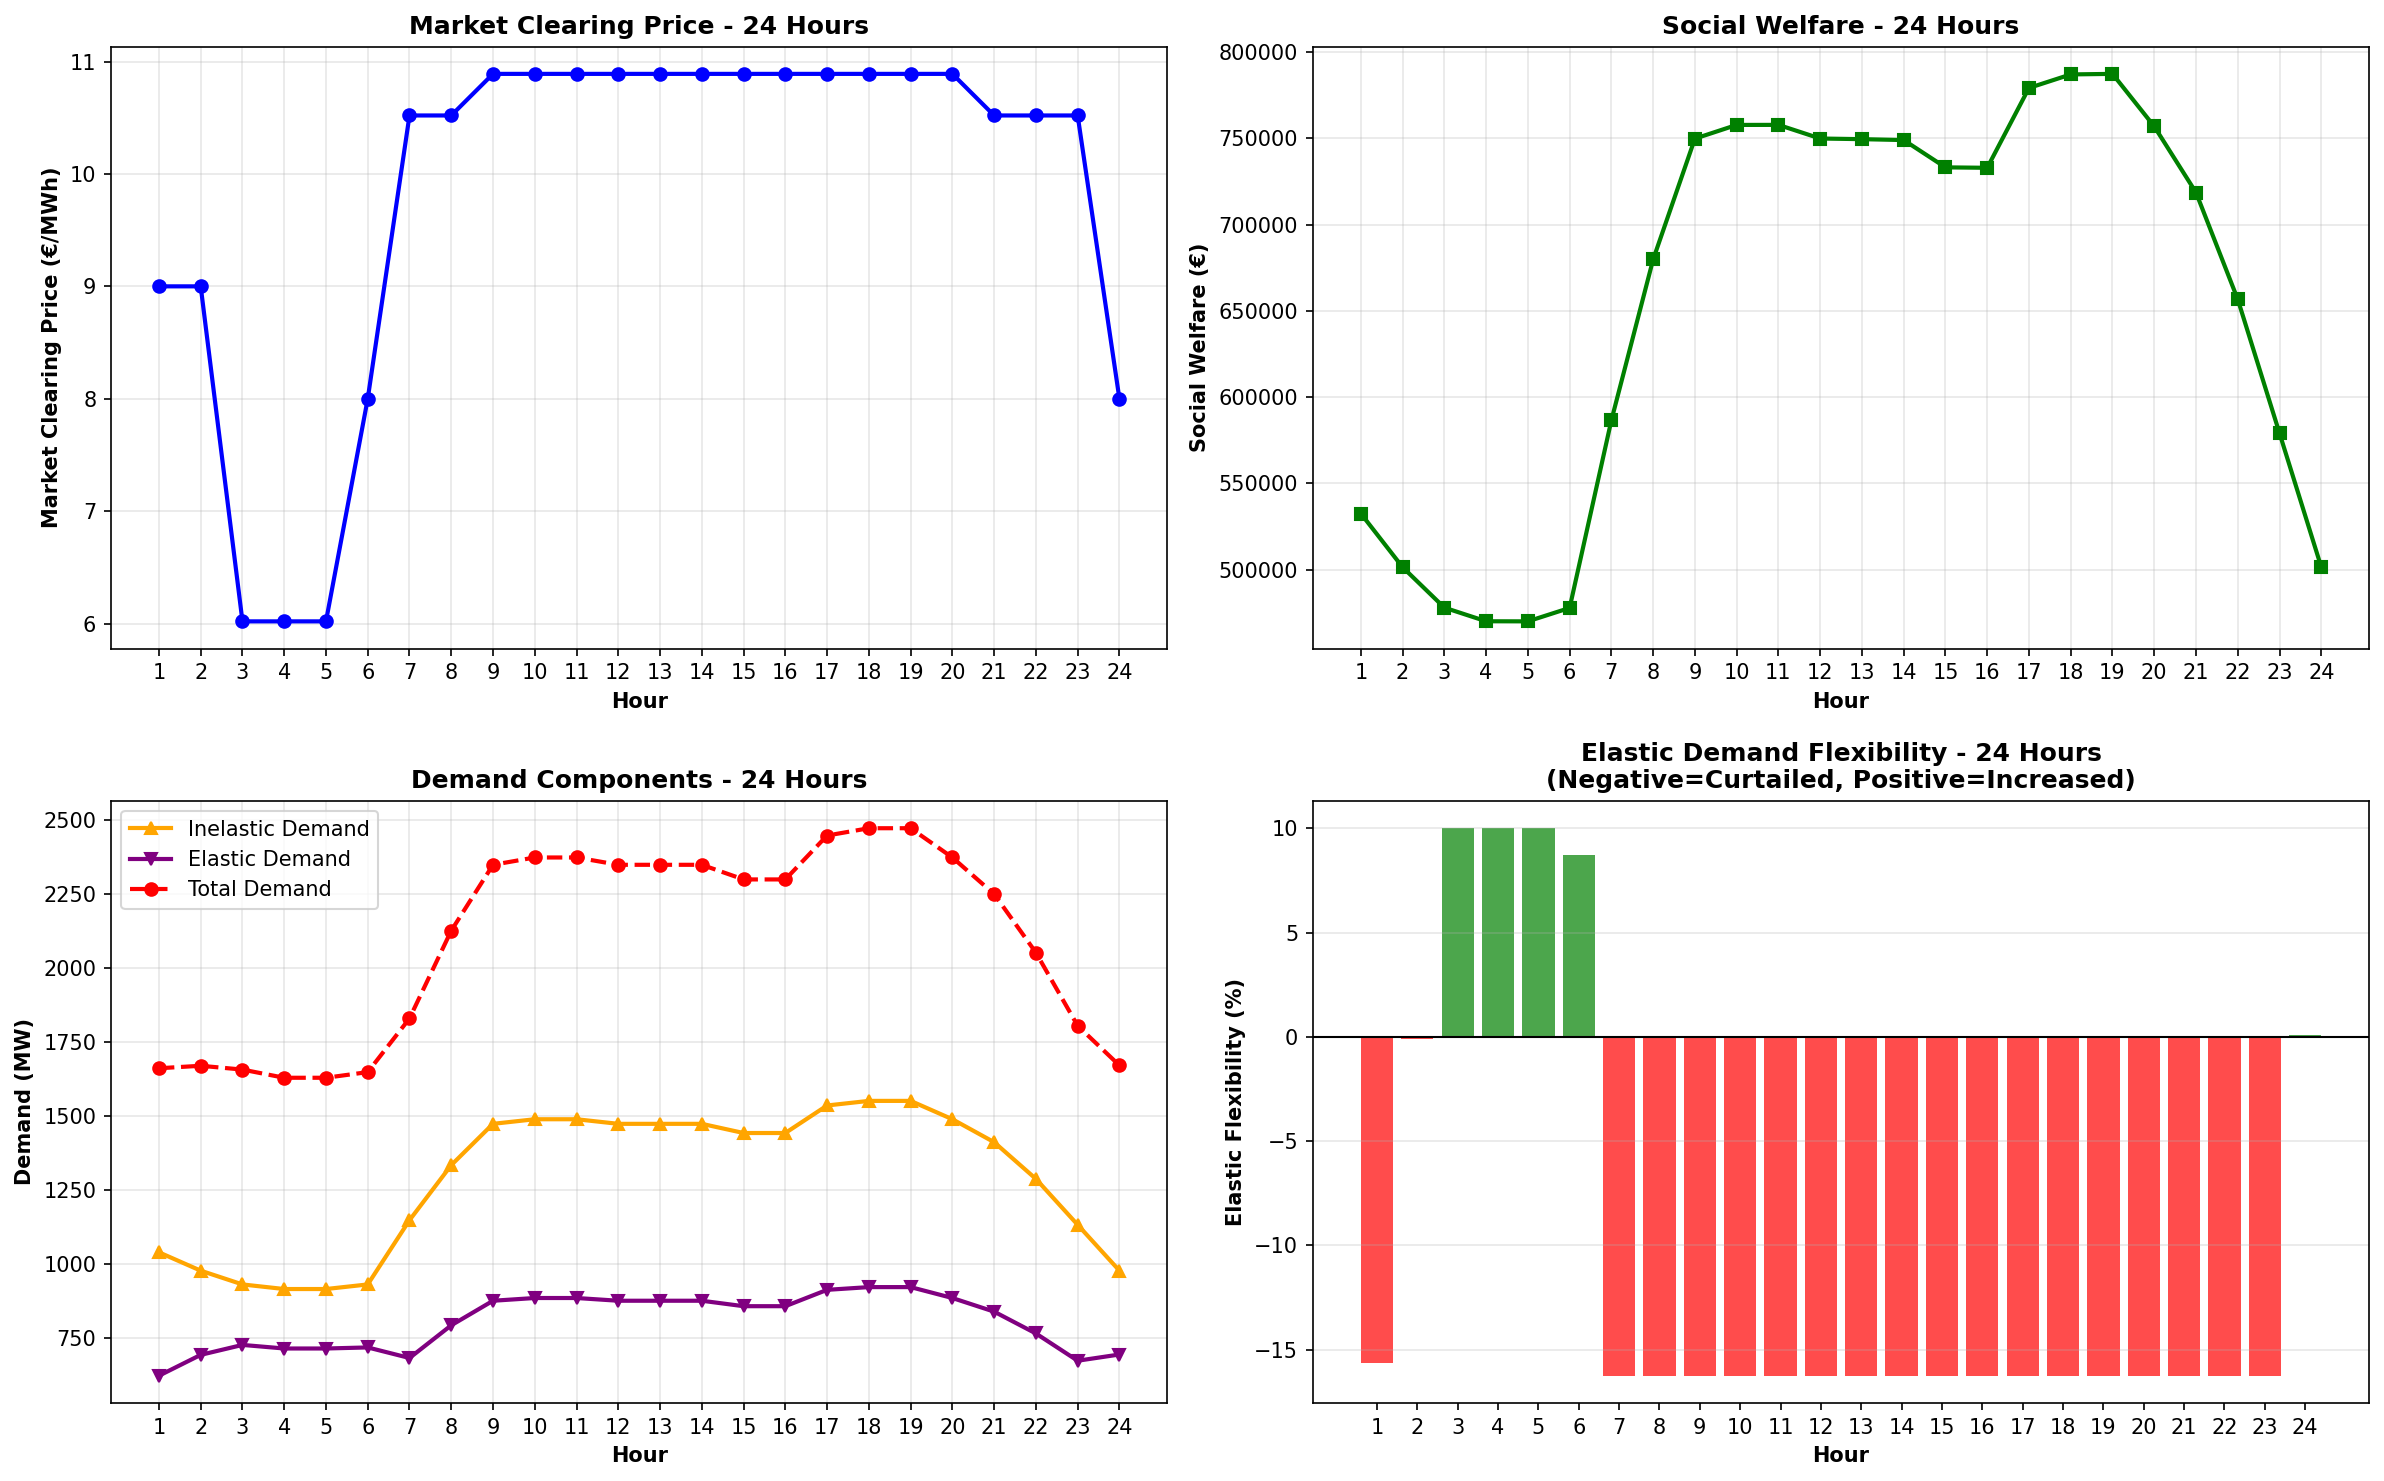
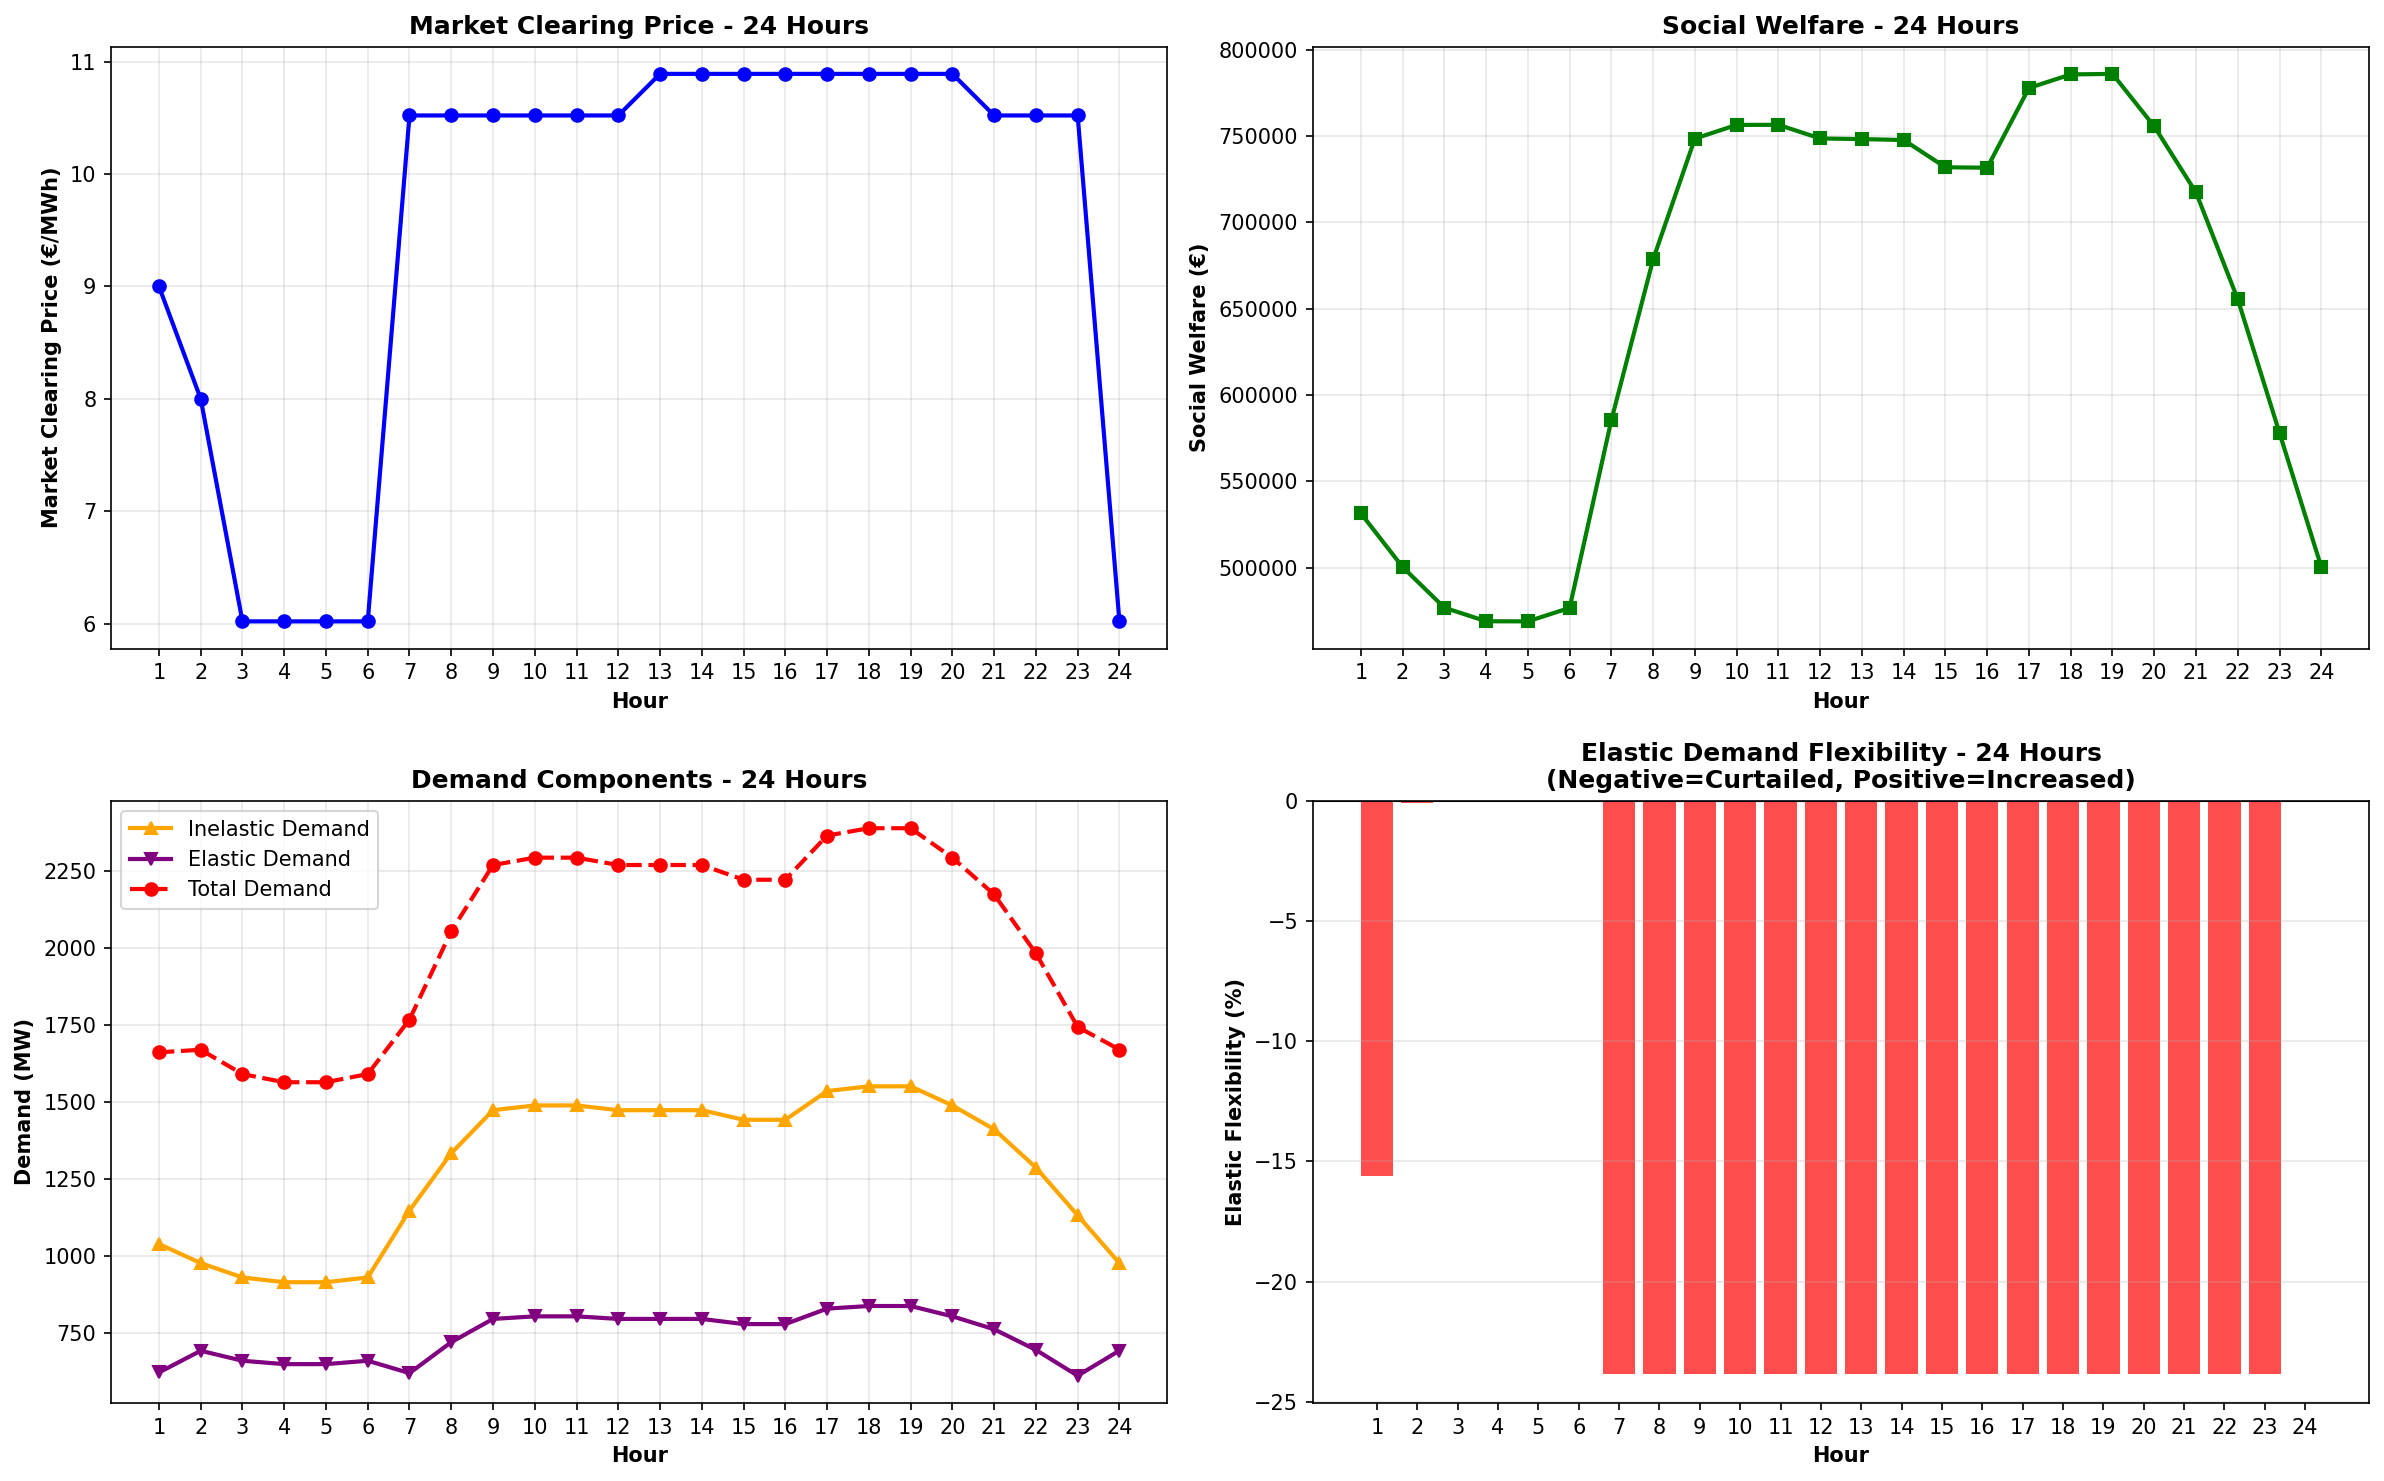
easy fixes to the conventions for the constants and hard code

diff --git a/Assignment_step1.py b/Assignment_step1.py
@@ -1,6 +1,3 @@
-# Howdy partner
-# ! Welcome to the wild west of coding. Let's wrangle some code together! 
-
 # step 1: single hour optimization with 6/17 elastic loads
 # imports
 import gurobipy as gp
@@ -154,21 +151,22 @@ elastic_bid_prices = {
     14: 25.0,   # mid-range flexibility
     15: 31.0,   # less flexible, close to peak generator cost
 }
+VOLL = 500  
 
 # Hour selected for merit order curve analysis (0-based index)
-hour = 8  # hour 5
+HOUR = 8  # hour 5
 
 # Optimization for each hour
 # Define ranges and indexes
 N_GENERATORS = len(total_generators) # number of generators (12 conventional + 6 wind)
 N_LOADS = len(load_distribution) # number of loads (17 total: 11 inelastic + 6 elastic)
-time_step = 24 # time step in hours 
+TIME_STEPS = 24 # time step in hours 
 GENERATORS = range(len(total_generators)) 
 LOADS = range(N_LOADS) 
 
 # Storage for results across all hours
 results_by_hour = []
-for t in range(time_step):  # Loop over time steps (hours)
+for t in range(TIME_STEPS):  # Loop over time steps (hours)
     wind_generator['capacity'] = wind_capacity[:, t] # Update wind generator capacities for the current hour based on CSV data
     total_generators =  pd.concat([conventional_generators, wind_generator], ignore_index=True) # Update total generators DataFrame with the new wind generator capacities for the current hour
     
@@ -185,12 +183,12 @@ for t in range(time_step):  # Loop over time steps (hours)
         
         if node in elastic_nodes:
             bid_quantities_min.append(0)
-            bid_quantities_max.append(demand_at_node * 1.10)
+            bid_quantities_max.append(demand_at_node)
             bid_prices.append(elastic_bid_prices[node])
         else:
             bid_quantities_min.append(demand_at_node * 1.00)
             bid_quantities_max.append(demand_at_node * 1.00)
-            bid_prices.append(500.0) # high bid price to ensure the inelastic load are always accepted - Value of Lost Load
+            bid_prices.append(VOLL) # high bid price to ensure the inelastic load are always accepted - Value of Lost Load
     
     demand_data = pd.DataFrame({
         'node': load_nodes,
@@ -278,9 +276,9 @@ for t in range(time_step):  # Loop over time steps (hours)
     elastic_flexibility_pct = (elastic_served / elastic_demand_base - 1) * 100 if elastic_demand_base > 0 else 0
     
     # Also calculate curtailment from MAX (110%) for reference
-    elastic_max_possible = elastic_demand_base * 1.10
+    elastic_max_possible = elastic_demand_base
     elastic_curtailment_from_max = (1 - elastic_served / elastic_max_possible) * 100 if elastic_max_possible > 0 else 0
-    if t == hour:  # Store detailed results for the hour selected for merit order curve analysis
+    if t == HOUR:  # Store detailed results for the hour selected for merit order curve analysis
         model_selected = model
         generators_selected = total_generators.copy() 
         demand_data_selected = demand_data.copy()
@@ -317,8 +315,8 @@ results_df = pd.DataFrame(results_by_hour)
 
 
 # Print summary for the selected hour
-h = results_df[results_df['hour'] == hour + 1].iloc[0] 
-print('\n'f'Step 1 market-clearing outcomes for {hour + 1}:') 
+h = results_df[results_df['hour'] == HOUR + 1].iloc[0] 
+print('\n'f'Step 1 market-clearing outcomes for {HOUR + 1}:') 
 print(f'Market Clearing Price: €{h["mcp"]:.2f}/MWh') 
 print(f'Total Operatring Cost: €{h["total_cost"]:.2f}')
 print(f'Social Welfare: €{h["social_welfare"]:.2f}')
@@ -416,11 +414,11 @@ plt.savefig(plots_dir / '24h_market_results.png', dpi=150, bbox_inches='tight')
 plt.close()
 
 # ============================================================================
-# MERIT ORDER CURVE + DEMAND CURVE (chosen hour) - Split Y-axis plot
+# MERIT ORDER CURVE + DEMAND CURVE (chosen hour)
 # ============================================================================
 
 # --- Supply curve data ---
-wind_generator['capacity'] = wind_capacity[:, hour]
+wind_generator['capacity'] = wind_capacity[:, HOUR]
 moc_generators = pd.concat([conventional_generators, wind_generator], ignore_index=True)
 moc_generators_sorted = moc_generators.copy().sort_values(by=["cost"])
 
@@ -439,7 +437,7 @@ for j, node in enumerate(load_nodes):
     if node in elastic_nodes:
         demand_bids.append((qty_max, elastic_bid_prices[node]))
     else:
-        demand_bids.append((qty_max, 500.0))  # VoLL for inelastic loads
+        demand_bids.append((qty_max, VOLL))  # VoLL for inelastic loads
 
 # Sort by bid price descending (highest willingness to pay first)
 demand_bids.sort(key=lambda x: x[1], reverse=True)
@@ -458,9 +456,9 @@ demand_x.append(demand_cumulative[-1])
 demand_y.append(0)
 
 # MCP from optimizer (dual variable of balance constraint)
-moc_equilibrium = results_df.loc[results_df['hour'] == hour + 1, 'mcp'].values[0]
+moc_equilibrium = results_df.loc[results_df['hour'] == HOUR + 1, 'mcp'].values[0]
 
-# --- Plot: split Y-axis (broken axis) ---
+# --- Plot: split Y-axis ---
 # Top panel: inelastic demand at VoLL (€500)
 # Bottom panel: elastic bids and MCP zone (0–45 €/MWh)
 fig, (ax_top, ax_bottom) = plt.subplots(
@@ -484,7 +482,7 @@ for ax in (ax_top, ax_bottom):
 
 # Top panel shows only the VoLL region
 ax_top.set_ylim(470, 530)
-ax_top.set_yticks([500])
+ax_top.set_yticks([VOLL])
 ax_top.set_ylabel('VoLL (€/MWh)', fontsize=10)
 ax_top.spines['bottom'].set_visible(False)
 ax_top.tick_params(bottom=False)
@@ -497,15 +495,6 @@ ax_bottom.set_xlabel('Cumulative Capacity / Demand (MW)', fontsize=12, fontweigh
 ax_bottom.spines['top'].set_visible(False)
 ax_bottom.legend(fontsize=11, loc='upper right')
 
-# # Add dashed reference lines for each elastic bid price
-# for bid_price in sorted(set(elastic_bid_prices.values())):
-#     ax_bottom.axhline(y=bid_price, color='red', linestyle=':', linewidth=0.8, alpha=0.5)
-#     ax_bottom.annotate(
-#         f'€{bid_price}/MWh',
-#         xy=(demand_cumulative[-1] * 1.13, bid_price),
-#         fontsize=8, color='darkred', va='center'
-#     )
-
 # --- Broken axis indicators (diagonal marks at the split) ---
 d = 0.015  # size of diagonal marks
 kwargs = dict(transform=ax_top.transAxes, color='k', clip_on=False, linewidth=1.5)
@@ -517,8 +506,8 @@ ax_bottom.plot((-d, +d), (1 - d, 1 + d), **kwargs)        # top-left of bottom p
 ax_bottom.plot((1 - d, 1 + d), (1 - d, 1 + d), **kwargs)  # top-right of bottom panel
 
 # --- Title and save ---
-fig.suptitle(f'Merit Order & Demand Curve - Hour {hour + 1}',
+fig.suptitle(f'Merit Order & Demand Curve - Hour {HOUR + 1}',
              fontsize=14, fontweight='bold', y=0.98)
 
-plt.savefig(plots_dir / f'merit_order_hour_{hour + 1}.png', dpi=150, bbox_inches='tight')
+plt.savefig(plots_dir / f'merit_order_hour_{HOUR + 1}.png', dpi=150, bbox_inches='tight')
 plt.show()
